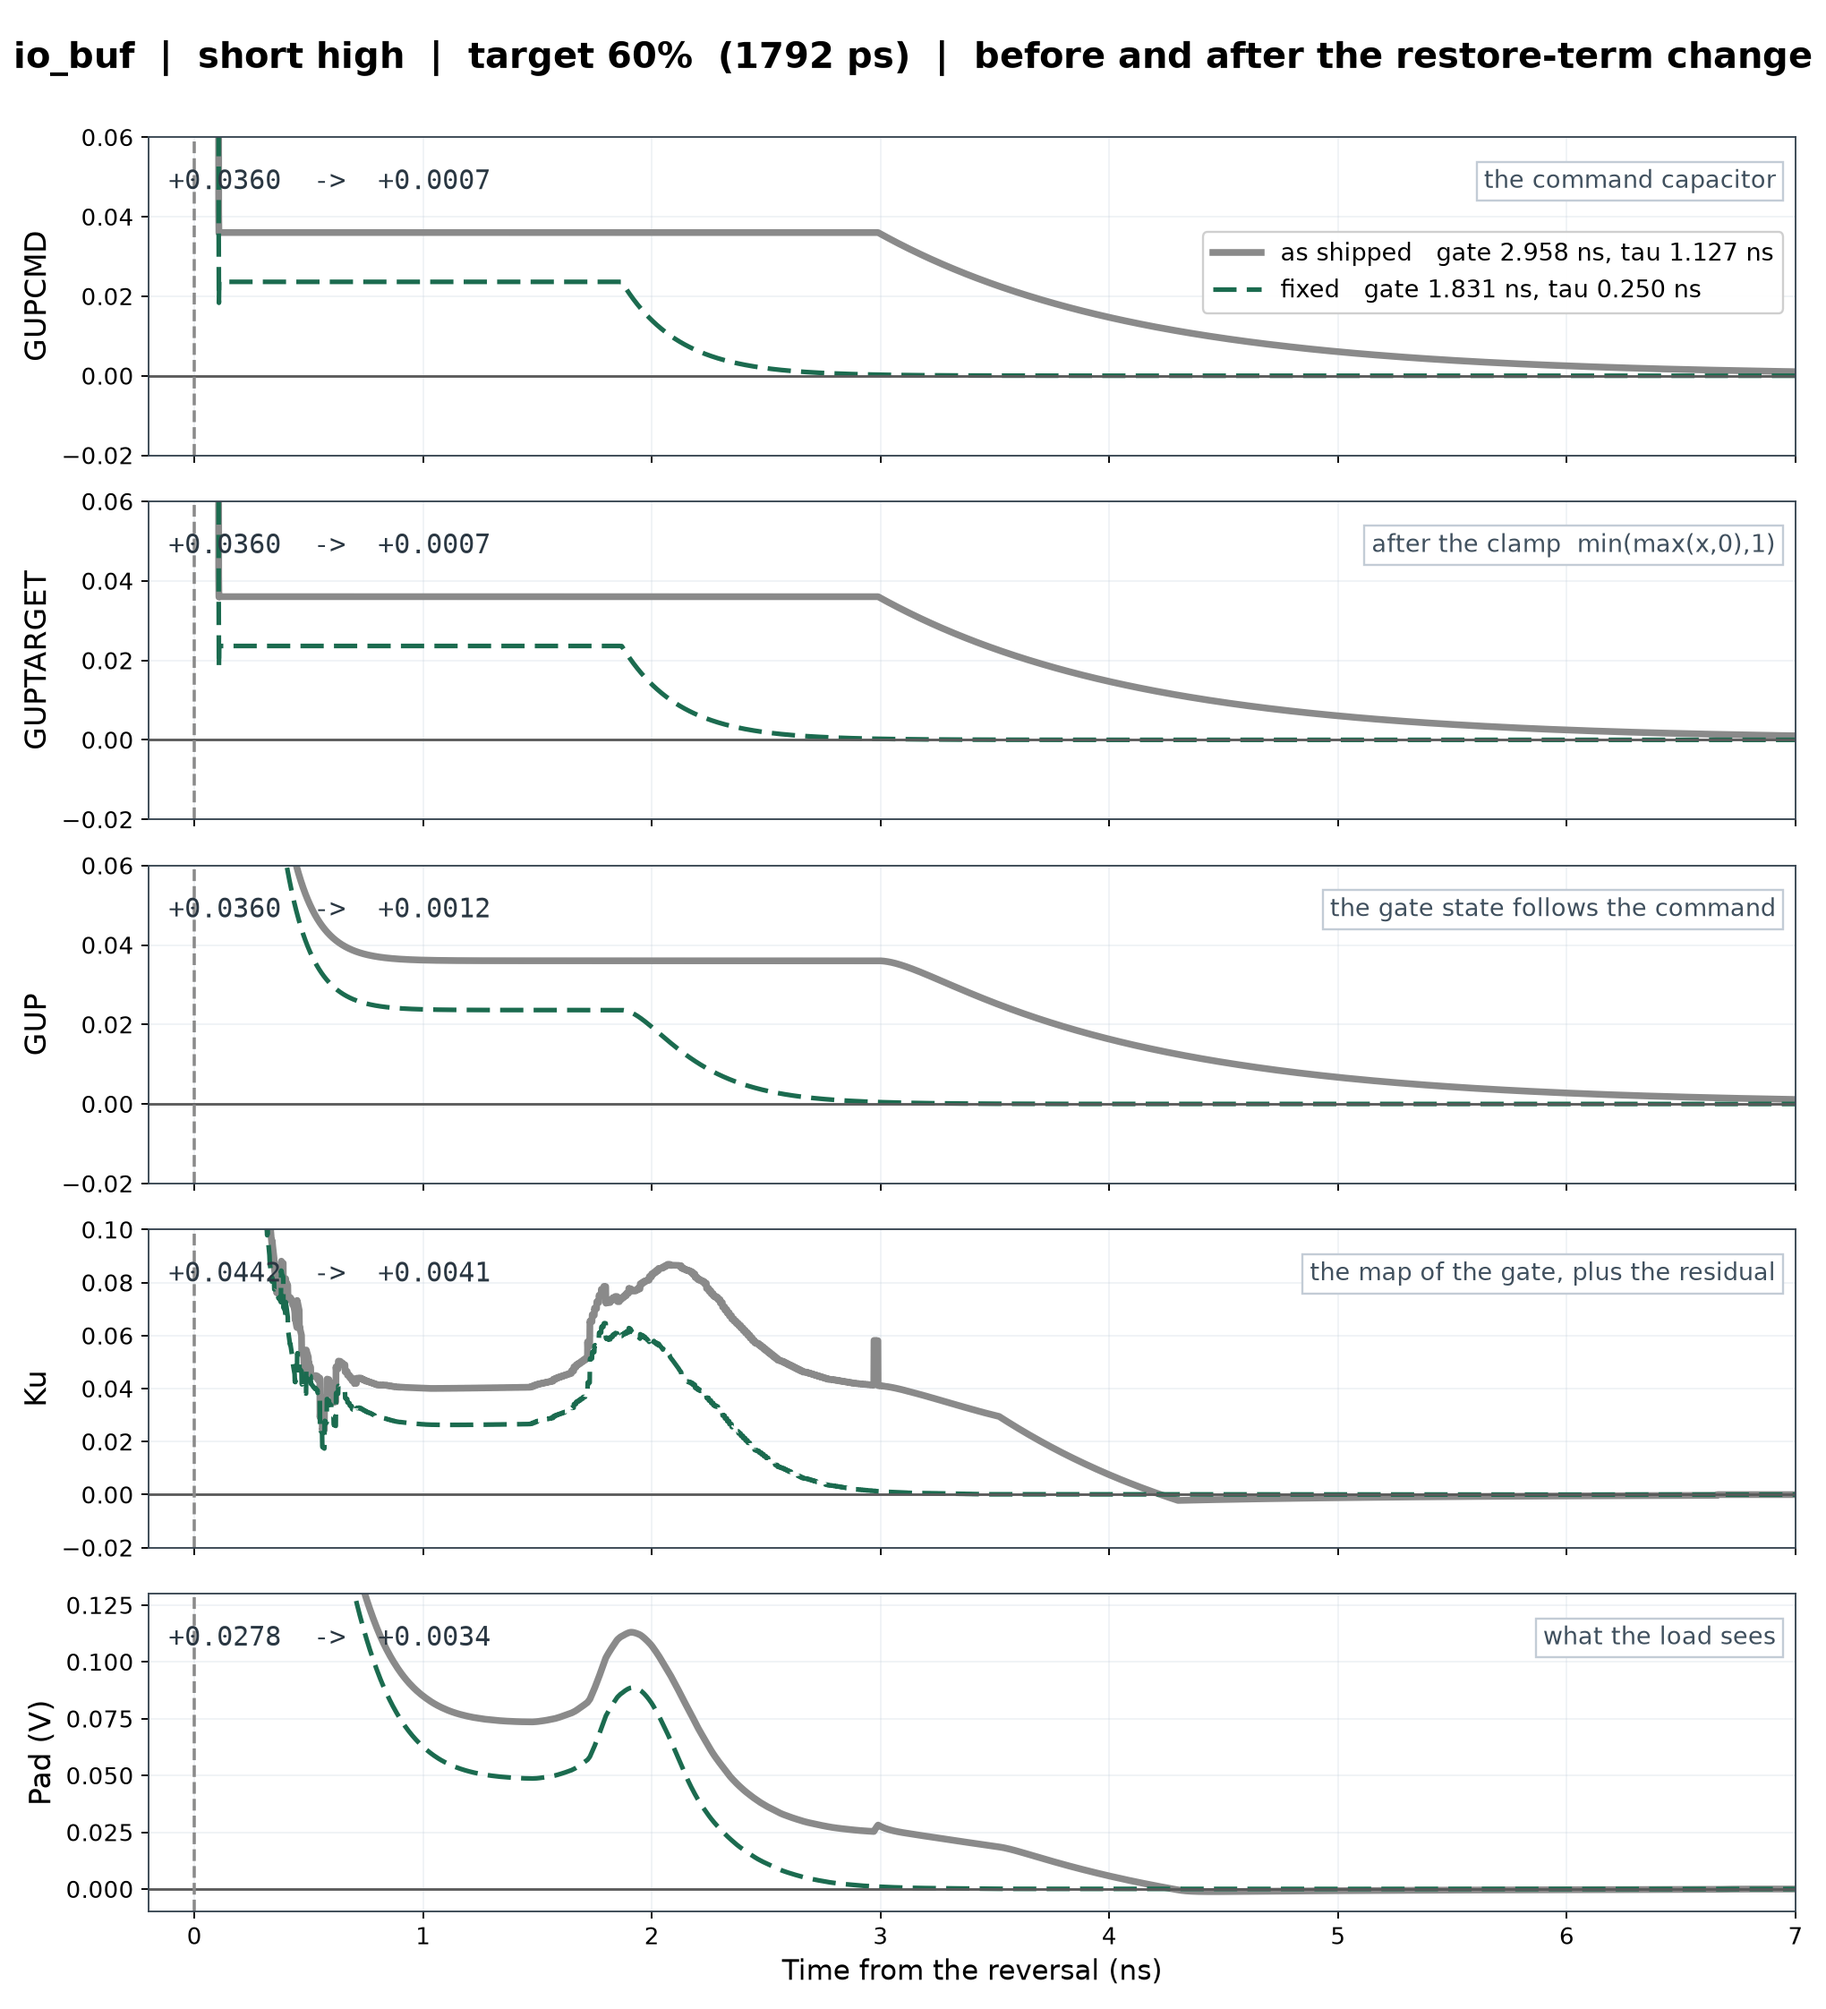
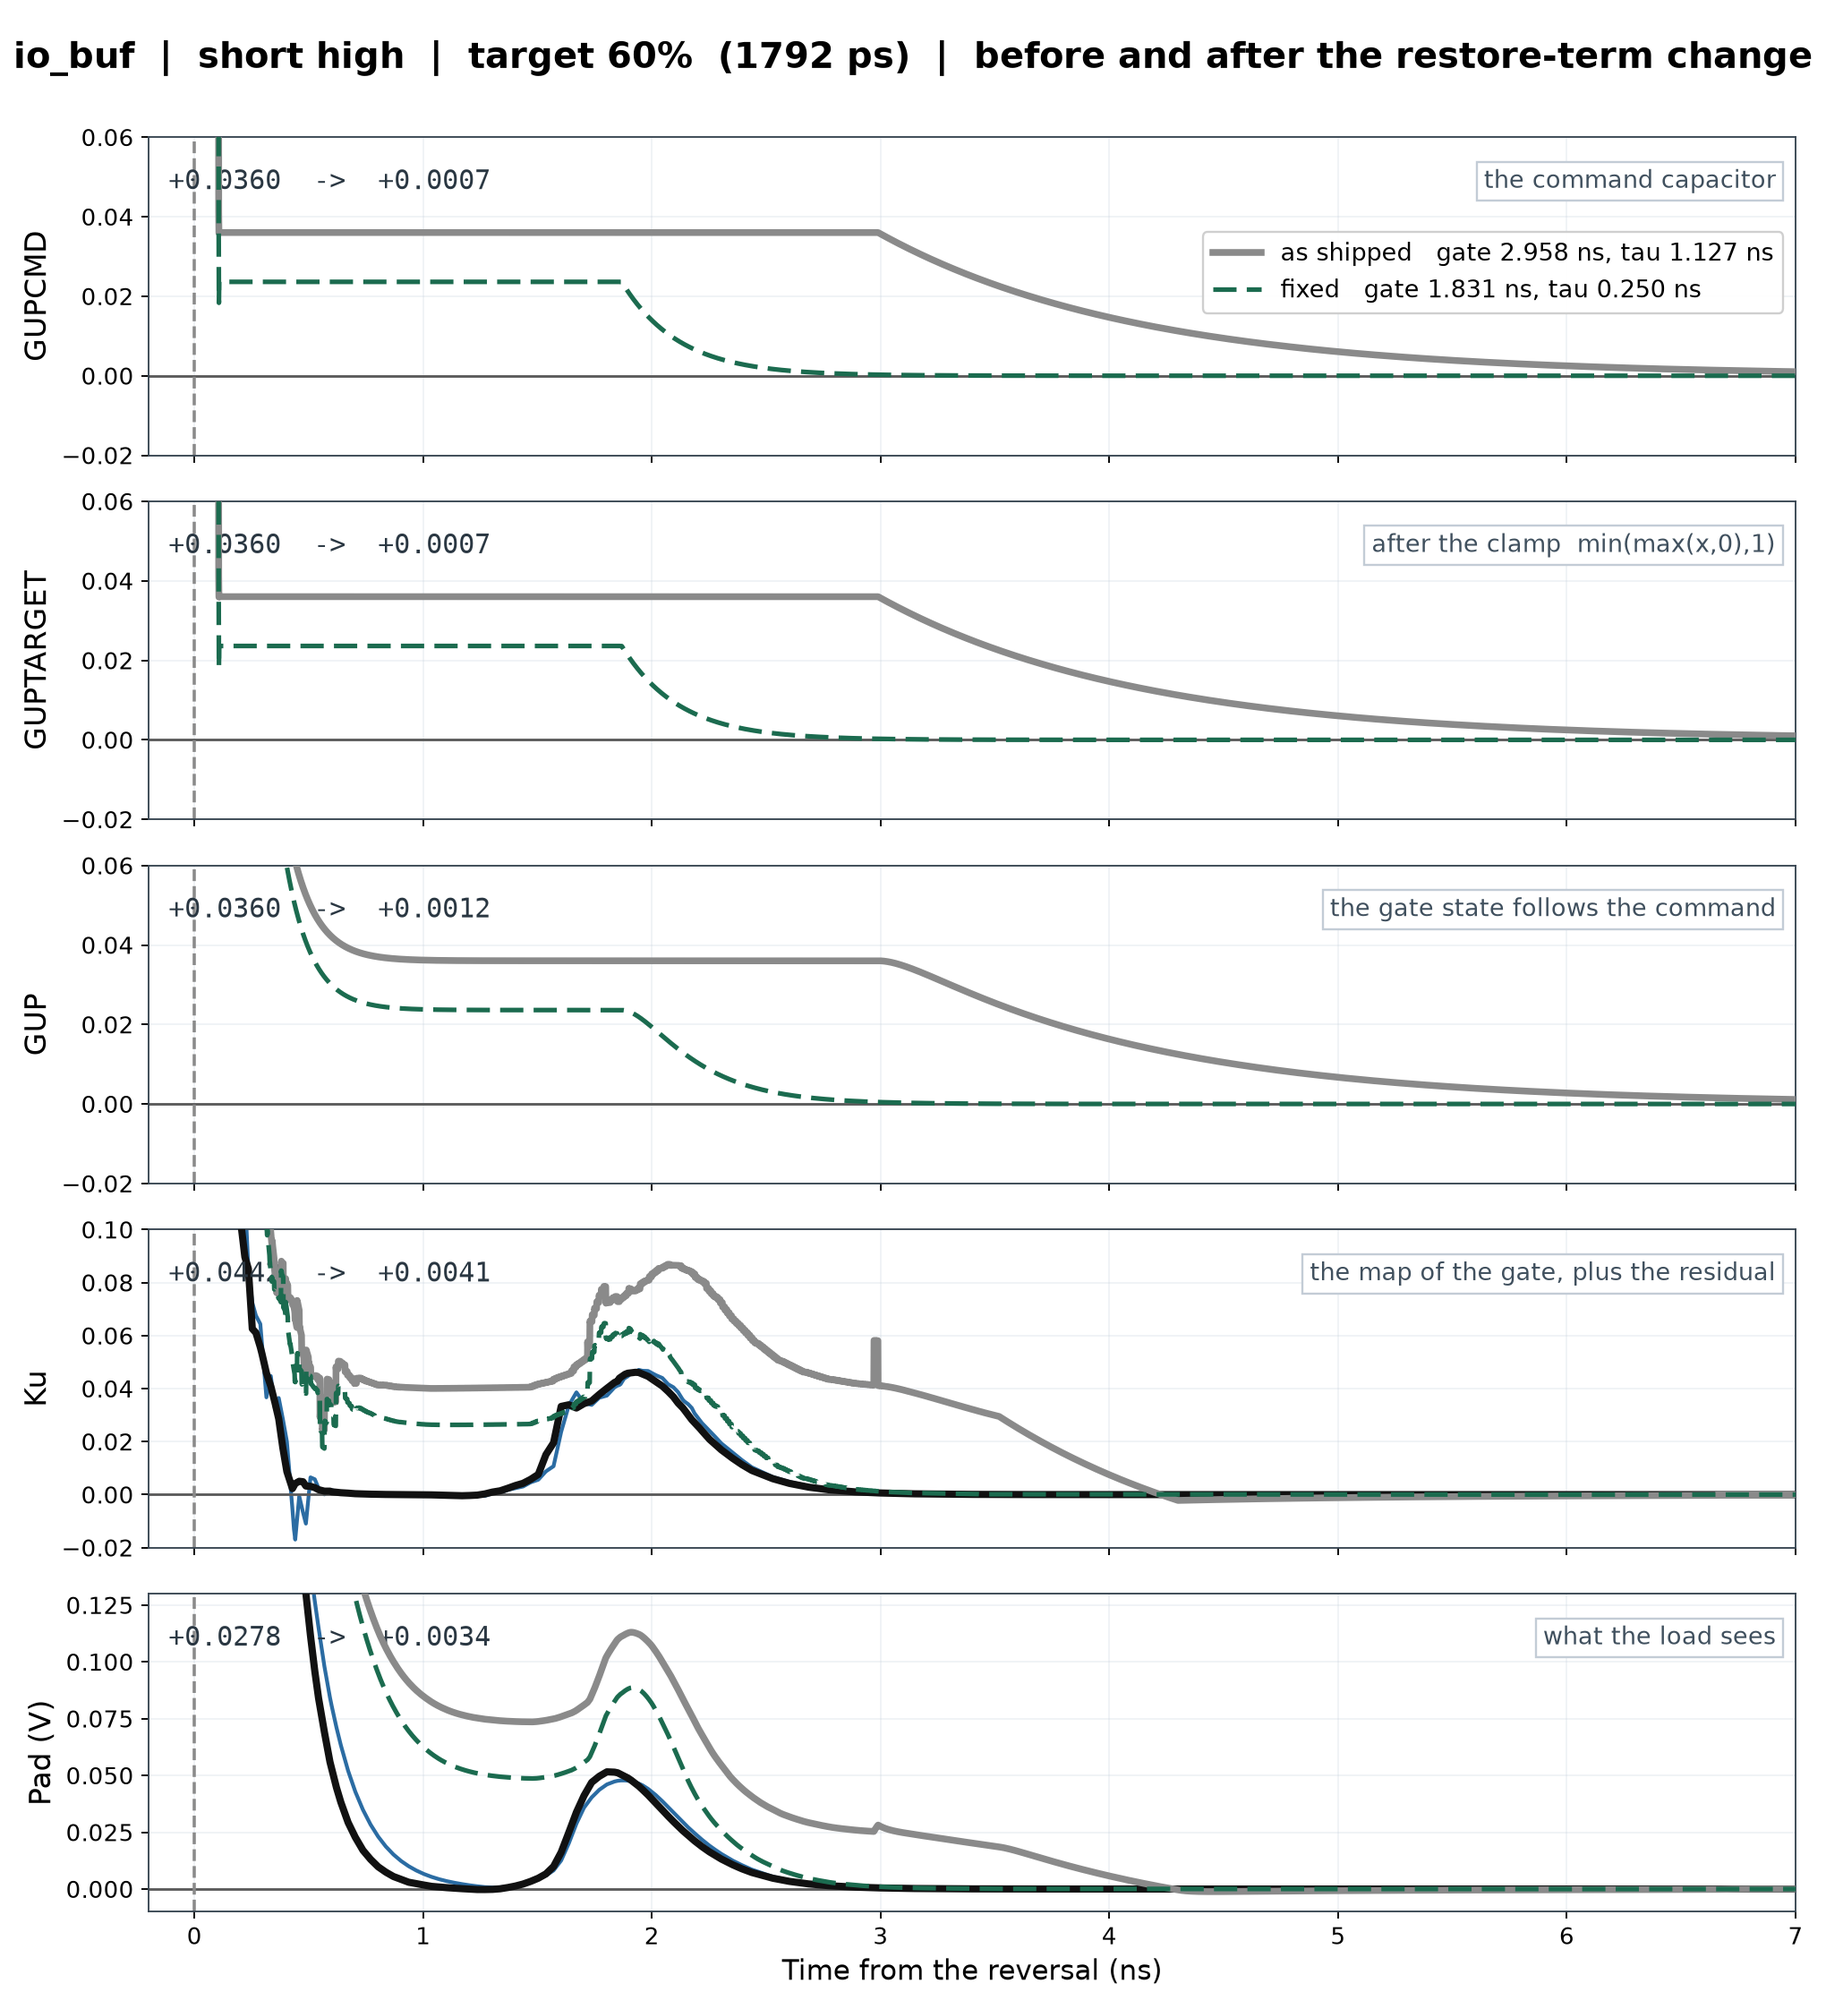
Put the transistor in the chain figure, so the offset is visible
The three internal panels explain the offset but cannot show it: silicon
has no GUPCMD. Adding the transistor and native IBIS to the Ku and pad
panels makes the gap the subject -- transistor Ku reaches 0.000 by 0.9 ns
and the pad by 1.2 ns, while the model holds 0.040 and 0.075 V until the
restoring term releases at 3 ns.

diff --git a/scripts/build_offset_chain_figure.py b/scripts/build_offset_chain_figure.py
@@ -40,12 +40,15 @@ import numpy as np  # noqa: E402
 BASE = ROOT / "results" / "settled_offset_diagnosis_2026-08-27"
 PROBE = BASE / "command_probe"
 FIX = BASE / "fix_probe"
+MATRIX = ROOT / "results" / "stress_method_matrix_2026-08-20" / "hybrid" / "waveforms"
 
 CASE = (60, 1792)
 EDGE_NS = 5.0
 INK = "#C05621"
 SHIPPED_C = "#8A8A8A"
 FIXED_C = "#1B6B4F"
+SILICON_C = "#111111"
+NATIVE_C = "#2B6CA3"
 DPI = 170
 
 CHAIN = [
@@ -63,6 +66,35 @@ def load(path: Path, width: int) -> dict[str, np.ndarray]:
     d = {name: values[:, i] for i, name in enumerate(rows[0])}
     d["rel_ns"] = d["time_ns"] - (EDGE_NS + width / 1000.0)
     return d
+
+
+def silicon(width: int) -> dict[str, np.ndarray]:
+    """The transistor and native-IBIS references for the same stimulus.
+
+    Only the last two panels have a reference to draw: GUPCMD, GUPTARGET and
+    GUP are internal to the model and silicon has no counterpart for them.
+    That is the point of the figure -- the offset is only *visible* at Ku and
+    the pad, and only *explicable* in the three panels above them.
+    """
+    rows = list(csv.reader((MATRIX / f"io_buf_short_high_w{width}ps.csv")
+                           .open(newline="", encoding="utf-8")))
+    values = np.array([[float(x) for x in r] for r in rows[1:]])
+    d = {name: values[:, i] for i, name in enumerate(rows[0])}
+    d["rel_ns"] = d["time_ns"] - (EDGE_NS + width / 1000.0)
+    return d
+
+
+REFERENCE = {"ku": ("silicon_ku", "hspice_ku"), "pad": ("silicon_pad", "hspice_pad")}
+
+
+def draw_reference(axis, ref, node, label=False):
+    if node not in REFERENCE:
+        return
+    sil, nat = REFERENCE[node]
+    axis.plot(ref["rel_ns"], ref[nat], color=NATIVE_C, lw=1.8,
+              label="HSPICE native IBIS" if label else None, zorder=2)
+    axis.plot(ref["rel_ns"], ref[sil], color=SILICON_C, lw=3.4,
+              label="HSPICE transistor" if label else None, zorder=3)
 
 
 def settled(d: dict[str, np.ndarray], node: str) -> float:
@@ -87,13 +119,24 @@ def style(axis, label, caption, ylim):
 
 def chain_figure(out: Path, target: int, width: int) -> None:
     d = load(PROBE / f"swing_{target}_w{width}ps.csv", width)
+    ref = silicon(width)
     fig, axes = plt.subplots(len(CHAIN), 1, figsize=(12.0, 13.2), sharex=True)
-    for axis, (node, label, caption, ylim) in zip(axes, CHAIN):
-        axis.plot(d["rel_ns"], d[node], color=INK, lw=2.8)
+    for n, (axis, (node, label, caption, ylim)) in enumerate(zip(axes, CHAIN)):
+        draw_reference(axis, ref, node, label=(node == "ku"))
+        axis.plot(d["rel_ns"], d[node], color=INK, lw=2.8,
+                  label="gate-state model" if node == "ku" else None, zorder=4)
         style(axis, label, caption, ylim)
-        axis.text(0.012, 0.90, f"settles at {settled(d, node):+.4f}",
+        axis.text(0.012, 0.90, f"model settles at {settled(d, node):+.4f}",
                   transform=axis.transAxes, fontsize=12.5, family="monospace",
                   color=INK, va="top")
+        if node in REFERENCE:
+            sil = REFERENCE[node][0]
+            axis.text(0.012, 0.72, f"transistor    {settled(ref, sil):+.4f}",
+                      transform=axis.transAxes, fontsize=12.5, family="monospace",
+                      color=SILICON_C, va="top")
+        if node == "ku":
+            axis.legend(fontsize=11, loc="upper right", framealpha=0.94,
+                        bbox_to_anchor=(1.0, 0.80))
     axes[-1].set_xlabel("Time from the reversal (ns)", fontsize=13)
     fig.suptitle(f"io_buf  |  short high  |  target {target}%  ({width} ps)  |  "
                  "the offset at every layer", fontsize=17, fontweight="bold")
@@ -105,12 +148,15 @@ def chain_figure(out: Path, target: int, width: int) -> None:
 def fix_figure(out: Path, target: int, width: int) -> None:
     ship = load(FIX / f"as_shipped_swing{target}_w{width}ps.csv", width)
     fixed = load(FIX / f"gate_and_tau_swing{target}_w{width}ps.csv", width)
+    ref = silicon(width)
     fig, axes = plt.subplots(len(CHAIN), 1, figsize=(12.0, 13.2), sharex=True)
     for axis, (node, label, caption, ylim) in zip(axes, CHAIN):
+        draw_reference(axis, ref, node, label=(node == "ku"))
         axis.plot(ship["rel_ns"], ship[node], color=SHIPPED_C, lw=3.2,
-                  label="as shipped   gate 2.958 ns, tau 1.127 ns")
+                  label="as shipped   gate 2.958 ns, tau 1.127 ns", zorder=4)
         axis.plot(fixed["rel_ns"], fixed[node], color=FIXED_C, lw=2.2,
-                  ls=(0, (5, 2.2)), label="fixed   gate 1.831 ns, tau 0.250 ns")
+                  ls=(0, (5, 2.2)), label="fixed   gate 1.831 ns, tau 0.250 ns",
+                  zorder=5)
         style(axis, label, caption, ylim)
         axis.text(0.012, 0.90,
                   f"{settled(ship, node):+.4f}  ->  {settled(fixed, node):+.4f}",
